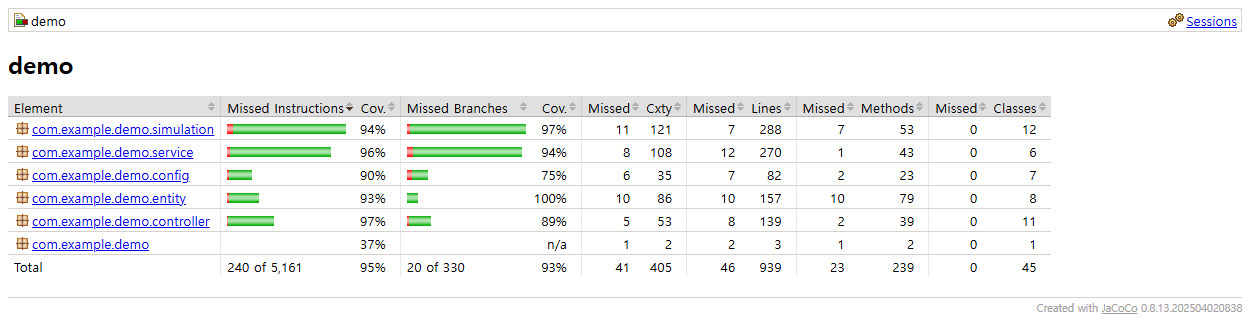
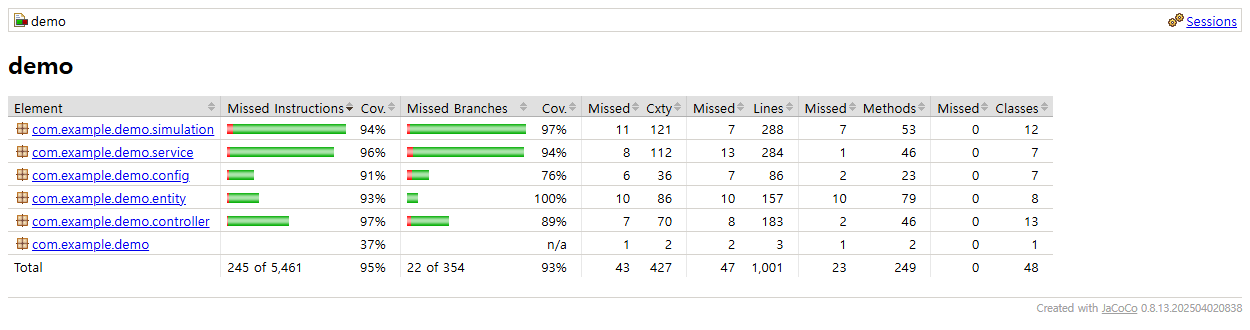
docs: 테스트별 점검 기능·결과 표와 목적 한 줄 추가, Stress 반영 (JUnit 134건)
- 장표 맨 위에 목적 한 줄 추가 (기능을 바꿔도 깨지지 않는다는 확신)
- "테스트별 점검 기능과 결과" 표: 점검 기능, 점검 결과, 왜 필요한가
- 통합 56개(부하 시험용 API 시험 7건 포함), JUnit 127건 → 134건
- 커버리지 재측정: 라인 95.3%, 분기 93.8%

diff --git a/presentation/01-test.md b/presentation/01-test.md
@@ -1,34 +1,31 @@
 # 1. 테스트 세팅
 
+**기능 4개를 여러 겹의 시험으로 확인했습니다.** 규칙대로 동작하는지, 이상한 입력과 많은 사용자에도 오류 없이 동작하는지 보았습니다. 그 과정에서 결함 3건을 찾아 고쳤고, 주문이 많아지면 목록이 느려진다는 점도 알아냈습니다. 목적은 **기능을 바꿔도 깨지지 않는다는 확신**을 얻는 것입니다.
+
 | 테스트 | 개수 | 테스트 도구 |
 |---|:-:|---|
 | Unit Test | 26개 | JUnit 5 |
 | Slice Test | 40개 | JUnit 5 + Spring Boot Test (`@WebMvcTest`, `@DataJpaTest`) |
-| 통합 테스트 | 49개 | JUnit 5 + Spring Boot Test (`@SpringBootTest`) |
+| 통합 테스트 | 56개 | JUnit 5 + Spring Boot Test (`@SpringBootTest`) |
 | E2E 테스트 | 87개 | Playwright |
 | Robustness 테스트 | 6개 | JUnit 5 |
-| Stress 테스트 | 1개 계획 | Apache JMeter |
+| Stress 테스트 | 1개 | Apache JMeter |
 | 성능 테스트 | 6개 | JUnit 5 (시간 측정) |
-| Test Coverage | 라인 95.1% (분기 93.9%) | JaCoCo |
-
-- JUnit 127건과 E2E 87건이 모두 통과합니다.
-- E2E 중 1건은 알려진 결함(없는 주문 번호로 접속하면 오류 화면이 뜸)이라 "실패해야 통과"로 표시했습니다.
+| Test Coverage | 라인 95.3% (분기 93.8%) | JaCoCo |
 
 <br>
 
-## 테스트별로 무엇을 확인했나
+## 테스트별 점검 기능과 결과
 
-| 종류 | 어떤 기능을 확인했나 | 왜 필요한가 |
-|---|---|---|
-| **Unit** (26개) | 경로 계산(공장 운영비 반영 포함), 마스터 입력값의 억 원 단위 변환, 가입·로그인 요청 횟수 제한, 납기 초과 일수 계산 | 계산과 규칙이 맞는지 가장 빠르게 확인하기 위해 |
-| **Slice** (40개) | **새로 만든 기능 4개**의 요청·응답과 DB 컬럼만 확인<br>· 고객사: 로그인 없이는 수정 불가, 작성자에게만 수정 가능 표시<br>· 필요 납기일: 정수만 받음(5.5나 문자는 거부), 생략하면 "가능한 빨리"<br>· 회원 가입: 로그인 없이 가입, 로그인 때 세션 교체, 가입 횟수 제한<br>· 공장 운영비: 억 원 단위로 표시, 틀린 값은 이유를 모아 알림<br>· DB 컬럼: 새 컬럼에 값이 저장되고 읽힘(비워 둔 값 포함) | 기존 전체가 아니라 신규 기능만 대상으로, 서비스 규칙은 가짜로 빼서 입구(요청·응답)와 출구(DB)의 문제만 따로 확인하기 위해 |
-| **통합** (49개) | 주문 확정·상태 변경, 고객사(작성자만 수정, 100자 제한, 완료 후 수정 불가), 필요 납기일(정수만, 경계값), 가입·로그인(암호화해 저장, 세션), 공장 운영비(값 범위 검사, 확정한 주문은 그대로) | 서비스와 DB가 함께 규칙대로 동작하는지 확인하기 위해 |
-| **E2E** (87개) | 로그인·접근 통제, 주문 수량 입력, 경로안 비교, 주문 확정, 목록·상세, 상태 관리, 마스터 수정, 그리고 **기능 4개 모두**를 화면에서 처음부터 끝까지 | 사용자가 실제로 쓰는 흐름이 화면에서 되는지 확인하기 위해 |
-| **Robustness** (6개) | 경로 계산(운항비와 공장 운영비): 배 1~4척 × 주문 조합 전체<br>비정상 입력과 동시 요청: 이상한 수량, 깨진 요청(가입·로그인·확정), 동시 확정, 잘못된 상태·고객사 변경 | 어떤 조합과 입력에서도 서버 오류 없이 정해진 응답을 주고 데이터가 어긋나지 않는지 확인하기 위해. 이 시험으로 결함 3건을 찾아 고쳤습니다. |
-| **성능** (6개) | 경로 계산, 시뮬레이션 요청, 동시 요청(사용자 8명), 주문 1,000건 목록 조회(고객사·납기 열 포함) | 코드를 바꿨을 때 응답이 눈에 띄게 느려지는 것을 잡기 위해 (한도는 여유 있게 설정) |
-| **Stress** (1개 계획) | 사용자가 한꺼번에 몰려도 오류 없이 동작하는지, 어떤 기능이 가장 먼저 느려지는지<br>· 경로 계산, 주문 목록·상세 조회, 주문 확정을 동시에 요청 | 평소보다 훨씬 많은 사용자가 몰리는 상황을 미리 겪어 보기 위해. 시험용 기능은 `stress` 모드로 띄운 앱에서만 열립니다. |
-
-운영 코드를 일부러 망가뜨려 보았더니(고객사 이름 누락, 납기 실수 허용, 로그인 확인 제거 등 7가지) Slice Test가 모두 실패해서, 테스트가 실제로 문제를 잡아냅니다.
+| 종류 | 점검 기능 | 점검 결과 | 왜 필요한가 |
+|---|---|---|---|
+| **Unit** (26개) | 경로 계산(공장 운영비 반영 포함), 마스터 입력값의 억 원 단위 변환, 가입·로그인 요청 횟수 제한, 납기 초과 일수 계산 | 26건 모두 통과 | 계산과 규칙이 맞는지 가장 빠르게 확인하기 위해 |
+| **Slice** (40개) | **새로 만든 기능 4개**의 요청·응답과 DB 컬럼만 확인<br>· 고객사: 로그인 없이는 수정 불가, 작성자에게만 수정 가능 표시<br>· 필요 납기일: 정수만 받음(5.5나 문자는 거부), 생략하면 "가능한 빨리"<br>· 회원 가입: 로그인 없이 가입, 로그인 때 세션 교체, 가입 횟수 제한<br>· 공장 운영비: 억 원 단위로 표시, 틀린 값은 이유를 모아 알림<br>· DB 컬럼: 새 컬럼에 값이 저장되고 읽힘(비워 둔 값 포함) | 40건 모두 통과<br>운영 코드를 일부러 망가뜨린 7가지를 모두 잡아냄 | 기존 전체가 아니라 신규 기능만 대상으로, 서비스 규칙은 가짜로 빼서 입구(요청·응답)와 출구(DB)의 문제만 따로 확인하기 위해 |
+| **통합** (56개) | 주문 확정·상태 변경, 고객사(작성자만 수정, 100자 제한, 완료 후 수정 불가), 필요 납기일(정수만, 경계값), 가입·로그인(암호화해 저장, 세션), 공장 운영비(값 범위 검사, 확정한 주문은 그대로), 부하 시험용 기능(`stress` 모드에서만 열림) | 56건 모두 통과 | 서비스와 DB가 함께 규칙대로 동작하는지 확인하기 위해 |
+| **E2E** (87개) | 로그인·접근 통제, 주문 수량 입력, 경로안 비교, 주문 확정, 목록·상세, 상태 관리, 마스터 수정, 그리고 **기능 4개 모두**를 화면에서 처음부터 끝까지 | 87건 모두 통과<br>(1건은 알려진 결함이라 "실패해야 통과") | 사용자가 실제로 쓰는 흐름이 화면에서 되는지 확인하기 위해 |
+| **Robustness** (6개) | 경로 계산(운항비와 공장 운영비): 배 1~4척 × 주문 조합 전체<br>비정상 입력과 동시 요청: 이상한 수량, 깨진 요청(가입·로그인·확정), 동시 확정, 잘못된 상태·고객사 변경 | 6건 모두 통과<br>**결함 3건을 찾아 고침** | 어떤 조합과 입력에서도 서버 오류 없이 정해진 응답을 주고 데이터가 어긋나지 않는지 확인하기 위해 |
+| **성능** (6개) | 경로 계산, 시뮬레이션 요청, 동시 요청(사용자 8명), 주문 1,000건 목록 조회(고객사·납기 열 포함) | 6건 모두 통과<br>한도에 여유가 있음 (주문 1,000건 목록 p95 약 50ms, 한도 300ms. 이 PC 기준) | 코드를 바꿨을 때 응답이 눈에 띄게 느려지는 것을 잡기 위해 |
+| **Stress** (1개) | 사용자가 한꺼번에 몰려도 오류 없이 동작하는지, 어떤 기능이 가장 먼저 느려지는지<br>· 경로 계산, 주문 목록·상세 조회, 주문 확정을 동시에 요청 | 오류 0건 (아래 결과 참고)<br>가장 먼저 느려진 곳은 **주문 목록** | 평소보다 훨씬 많은 사용자가 몰리는 상황을 미리 겪어 보기 위해. 시험용 기능은 `stress` 모드로 띄운 앱에서만 열립니다. |
 
 <br>
 
@@ -54,12 +51,12 @@ JMeter로 사용자를 늘려 가며 부하를 줬습니다. 같은 PC에서 시
 
 ## 테스트 커버리지
 
-JUnit 127건을 실행하며 측정했습니다.
+JUnit 134건을 실행하며 측정했습니다.
 
 | 구분 | 커버 / 전체 | 비율 |
 |---|:-:|:-:|
-| 라인 | 893 / 939 | 95.1% |
-| 분기 | 310 / 330 | 93.9% |
+| 라인 | 954 / 1,001 | 95.3% |
+| 분기 | 332 / 354 | 93.8% |
 
 ![JaCoCo 커버리지 요약](assets/coverage.png)
 
